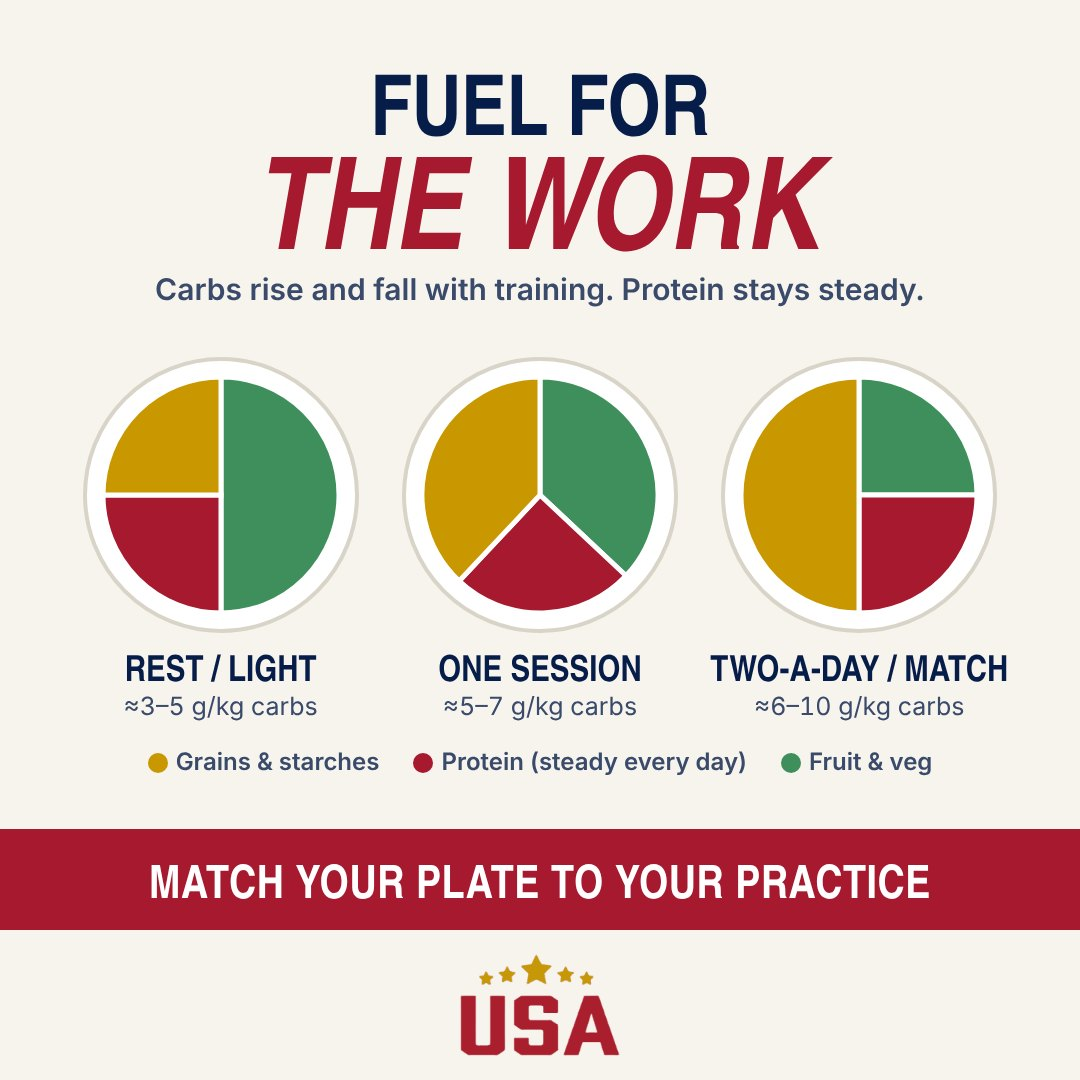
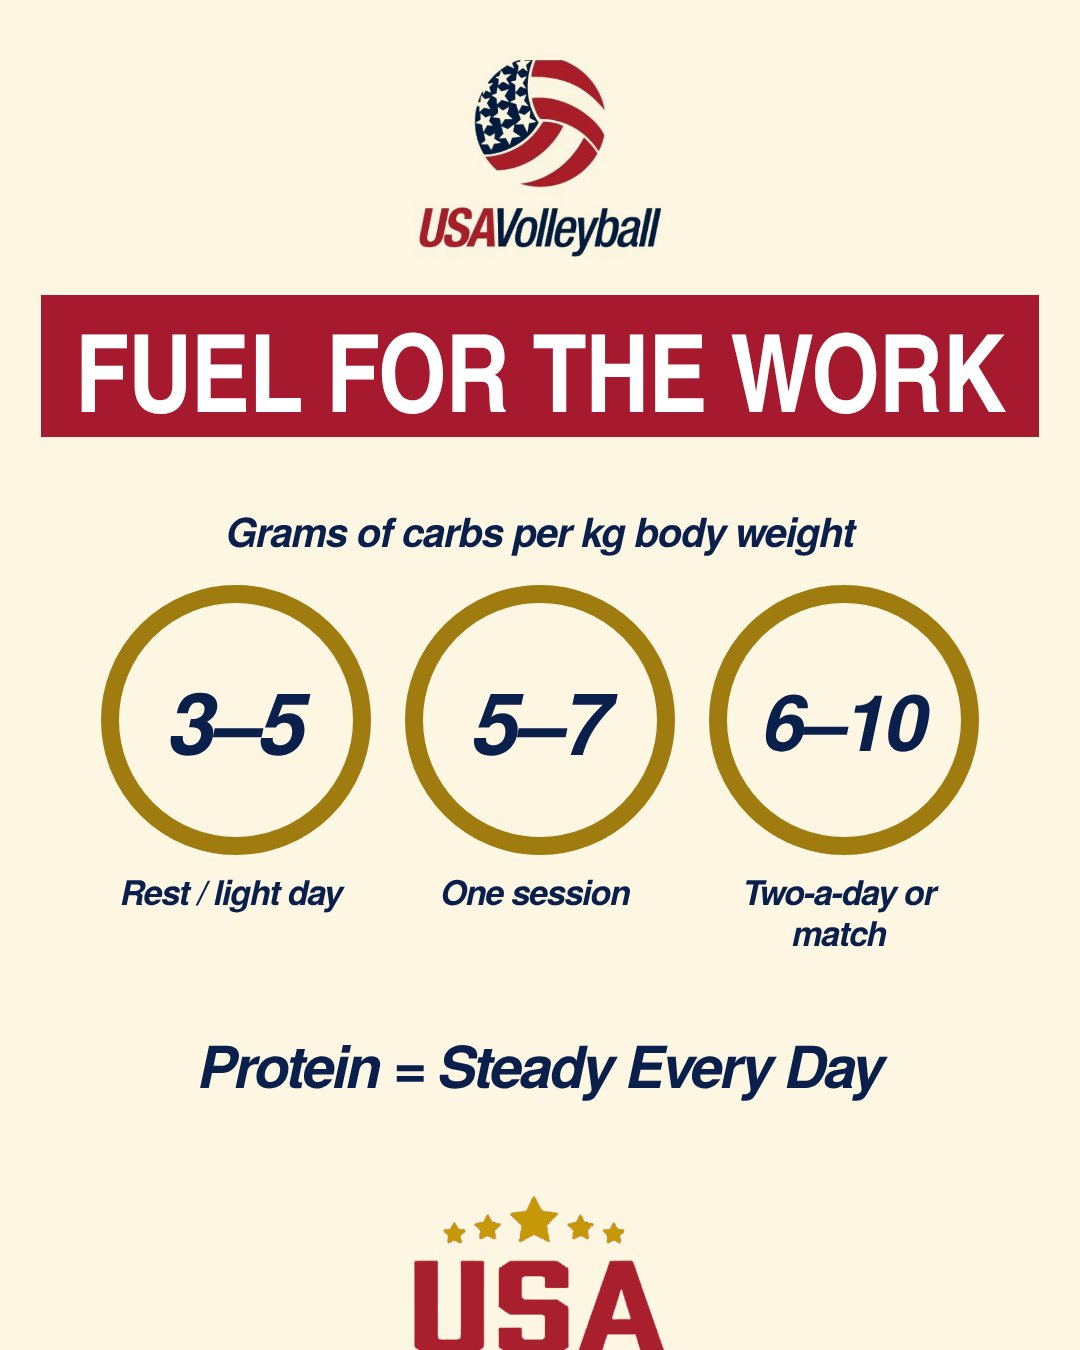
Poster wall: redraw the five new posters in the hand-made series style
4:5 portrait like Fuel the Jump, the pyramid and Build Your Plate; alt text updated.

Claude-Session: https://claude.ai/code/session_015aZ1xGAbsBUUShaTAYBaha

diff --git a/index.html b/index.html
@@ -1009,7 +1009,7 @@ const FAQ=[
 ];
 
 /* Visual guides shown at the top of Learn (images are the dietitian's own graphics) */
-const GUIDES=[{"k": "Fueling basics", "t": "Fuel the Jump", "d": "Carbs give you court energy, protein builds power, and fat supports your brain and hormones.", "img": "guide-fuel-the-jump.jpg", "alt": "Fuel the Jump: carbs equal court energy, protein equals build power, fat equals brain and hormone support."}, {"k": "Fueling basics", "t": "Sports Nutrition Pyramid", "d": "Get enough carbs, protein and fat first. Then variety, then timing. Supplements are the small top layer.", "img": "guide-sports-nutrition-pyramid.jpg", "alt": "Sports nutrition pyramid, bottom to top: adequate intake of carbohydrates, protein and fat; variety of food and food preparation; timing of meals and snacks; supplements."}, {"k": "Fueling basics", "t": "Serving the Ideal Diet", "d": "Carbs for energy, protein for repair, fats for support. Fuel and hydrate for training, perform in competition, refuel and rebuild after.", "img": "guide-serving-the-ideal-diet.jpg", "alt": "Serving the ideal diet for training, competition and recovery: carbs energy, protein repair, fats support. Balance, timing, consistency."}, {"k": "Fueling basics", "t": "The Case for Carbs", "d": "Carbs fuel high-intensity jumping and sprinting, support focus, spare muscle and restore energy after training.", "img": "guide-the-case-for-carbs.jpg", "alt": "The case for carbs: fuel high intensity, support brain function, spare muscle, restore and recover. Carbs equal performance fuel."}, {"k": "Fueling basics", "t": "Build a Better Breakfast", "d": "Breakfast fuels your day, sharpens focus and supports recovery from yesterday's training.", "img": "guide-build-a-better-breakfast.jpg", "alt": "Build a better breakfast for optimal performance: fuel your day, improve focus, support recovery."}, {"k": "Fueling basics", "t": "Olympic Caliber Nutrition", "d": "Fuel with purpose, recover with intention. Consistency builds champions.", "img": "guide-olympic-caliber-nutrition.jpg", "alt": "Olympic caliber nutrition: fuel with purpose, recover with intention, consistency builds champions."}, {"k": "Fueling basics", "t": "Fuel for the Work", "d": "Carbs rise and fall with training; protein stays steady. About 3–5 g/kg carbs on rest or light days, 5–7 on one session, 6–10 on two-a-days and match days.", "img": "guide-fuel-for-the-work.jpg", "alt": "Fuel for the work: three plates. Rest or light day, about 3 to 5 grams of carbs per kilogram: half fruit and vegetables, a quarter grains, a quarter protein. One session, about 5 to 7 grams per kilogram: grains, fruit and vegetables about equal, a quarter protein. Two-a-day or match day, about 6 to 10 grams per kilogram: half grains, a quarter fruit and vegetables, a quarter protein. Protein stays steady every day. Match your plate to your practice."}, {"k": "Fueling basics", "t": "Match Day Clock", "d": "Meal 3–4 hours out, a carb snack 1 hour out, sips between sets, easy carbs between matches, then carbs plus protein to recover.", "img": "guide-match-day-clock.jpg", "alt": "Match day clock. 4 hours before: meal with carbs and some protein, lower fat and fiber, familiar foods. 1 hour before: top-up snack such as a banana, pretzels, toast with honey or a sports drink. Between sets: sip fluid, sports drink if long, hot or intense. Between matches: easy carbs and fluid, 30 to 60 grams of carbs an hour. Final: recover with carbs and 20 to 40 grams of protein, then a real meal. Practice it before you play it."}, {"k": "Portions", "t": "Build Your Plate", "d": "Palm of protein, fist of fruit and veg, thumb of fats, cupped hand of carbs. Add more carbs on heavy training and match days.", "img": "guide-build-your-plate.jpg", "alt": "Hand portion guide: palm for protein, fist for fruit and vegetables, thumb for fats, cupped hand for carbs."}, {"k": "Portions", "t": "Nutritional Serving Sizes", "d": "Use your hand to guide serving sizes and keep each meal balanced. Larger athletes and heavy training days usually need more than one portion.", "img": "guide-nutritional-serving-sizes.jpg", "alt": "Nutritional serving sizes: palm protein, fist veggies, cupped hand carbs, thumb fats. Balance is key at every meal; consistency fuels performance."}, {"k": "Hydration", "t": "Five Signs of Dehydration", "d": "Thirst, dark yellow urine, dry mouth, fatigue and headache. Drink early and often instead of waiting for thirst.", "img": "guide-five-signs-of-dehydration.jpg", "alt": "Five signs of dehydration: thirst, dark yellow urine, dry mouth, fatigue, headache. Rehydrate: drink water early and often."}, {"k": "Hydration", "t": "Your Pee Doesn't Lie", "d": "Check your first pee each morning. Shades 1–3 mean you're hydrated, 4 means drink up, and 5–6 means rehydrate now.", "img": "guide-your-pee-doesn-t-lie.jpg", "alt": "Pee color guide, light to dark, 1 to 6. 1 to 3 hydrated, pale straw is the goal. 4 drink up. 5 to 6 drink now. Losing about 2% of body weight in sweat can hurt performance; clear all day can mean overdrinking; multivitamins can turn urine bright yellow."}, {"k": "Hydration", "t": "How Much Water Do You Need?", "d": "Starting point: body weight in pounds ÷ 2 = ounces per day. Add more on training days and in heat. Heavy or salty sweaters can ask about a sweat test.", "img": "guide-how-much-water-do-you-need.jpg", "alt": "TrueSport: how much water do you need? Body weight in pounds divided by 2 equals ounces of water per day. Example: 160 lb divided by 2 equals 80 oz."}, {"k": "Hydration", "t": "Beyond the Water Break", "d": "Electrolytes replace what you sweat out, carbs replenish energy, and recovery nutrition refuels you. Eating soon after matters most when you train again the same day.", "img": "guide-beyond-the-water-break.jpg", "alt": "Beyond the water break: electrolytes replace what you sweat out, carbs replenish energy, recovery nutrition: refuel within 60 minutes."}, {"k": "Hydration", "t": "Heat Plan", "d": "Start hydrated, pre-cool with a cold drink or slushie, drink to thirst with a sports drink when it's long or hot, and give yourself 1–2 weeks to adapt.", "img": "guide-heat-plan.jpg", "alt": "Heat plan. Before: start hydrated, pale-yellow pee is the goal. Pre-cool: cold drink or ice slushie before warm-up. During: drink to thirst, sports drink if long, hot or salty. Adapt: give your body 1 to 2 weeks to adjust to heat. Check Heat check on Home before hot or outdoor sessions."}, {"k": "Recovery & health", "t": "Foods That Heal", "d": "Berries, leafy greens, fatty fish, nuts and seeds, turmeric and ginger. They support recovery alongside enough total food, protein and sleep.", "img": "guide-foods-that-heal.jpg", "alt": "Foods that heal: berries (antioxidants), leafy greens (vitamins and minerals), fatty fish (omega-3s), nuts and seeds (healthy fats), turmeric and ginger. Real food, real recovery."}, {"k": "Recovery & health", "t": "Ironing Out Nutrition", "d": "Iron supports red blood cells, energy and endurance. Pair plant iron with vitamin C to absorb more. Don't start iron pills without labs.", "img": "guide-ironing-out-nutrition.jpg", "alt": "Ironing out nutrition: iron supports red blood cells, improves energy and endurance, pair with vitamin C to absorb more."}, {"k": "Recovery & health", "t": "The Underrated Vitamin", "d": "Vitamin D supports immune health, bones and muscle function. Ask for a lab review if you train mostly indoors.", "img": "guide-the-underrated-vitamin.jpg", "alt": "Vitamin D supports immune health, strong bones, muscle function, mood and energy. Get outside, fuel inside."}, {"k": "Recovery & health", "t": "The Night Shift", "d": "Caffeine cutoff by early afternoon, carbs at dinner, protein before bed on heavy days, and skip alcohol. Aim for 7–9 hours.", "img": "guide-the-night-shift.jpg", "alt": "The night shift: recovery clocks in when you clock out. Caffeine cutoff, none after early afternoon. Carbs at dinner about 4 hours before bed helps you fall asleep. Protein before bed, such as yogurt, milk or cottage cheese, on heavy days. Skip the nightcap: alcohol breaks up sleep and slows repair. 7 to 9 hours. Sleep is part of training."}, {"k": "Smart choices", "t": "Do Super Foods Make You Super?", "d": "No single food makes you super. Your overall diet, consistency and lifestyle do. Focus on habits, not hype.", "img": "guide-do-super-foods-make-you-super.jpg", "alt": "Do super foods make you super? No single food makes you super. Overall diet, consistency and lifestyle do."}, {"k": "Smart choices", "t": "Healthy Choices for Dining Out", "d": "Check menus ahead, build around protein and veggies plus a carb, and choose smart drinks.", "img": "guide-healthy-choices-for-dining-out.jpg", "alt": "Healthy choices for dining out: plan ahead and check menus online, focus on protein and veggies, choose smart beverages."}, {"k": "Supplements", "t": "Four Supplement Myths", "d": "More isn't better, supplements don't replace food, and not all are safe. Use only third-party tested products (NSF Certified for Sport) and check with Nick first.", "img": "guide-four-supplement-myths.jpg", "alt": "Four myths about supplements: more is better, supplements replace food, all supplements are safe, only pros need them. Focus on food, use supplements wisely."}, {"k": "Supplements", "t": "Peptides: Science vs. Hype", "d": "Popular \"wellness\" peptides like BPC-157 aren't FDA-approved for recovery or performance, have little human evidence, and several are banned by WADA.", "img": "guide-peptides-science-vs-hype.jpg", "alt": "Peptides: real science vs. marketing hype. Peptides are short chains of amino acids that signal the body to grow, repair or regulate hormones. FDA-approved peptides go through years of clinical trials; research peptides sold online lack human validation. Animal results often fail in humans. BPC-157 has no high-quality human trials and remains unregulated. Avoid products labeled For Research Use Only."}, {"k": "Supplements", "t": "Too Good to Be True", "d": "Red flags: proprietary blends, “research use only,” big muscle or fat-loss promises, and no NSF Certified for Sport or Informed Sport seal. Ask Nick first.", "img": "guide-too-good-to-be-true.jpg", "alt": "Too good to be true: supplements aren't checked for safety before they're sold. Red flags: proprietary blend hides what's inside and how much; research use only means not made or tested for people; big promises like muscle builder, test booster or fat burner; no NSF Certified for Sport or Informed Sport seal. No seal, no deal. Ask Nick first."}];
+const GUIDES=[{"k": "Fueling basics", "t": "Fuel the Jump", "d": "Carbs give you court energy, protein builds power, and fat supports your brain and hormones.", "img": "guide-fuel-the-jump.jpg", "alt": "Fuel the Jump: carbs equal court energy, protein equals build power, fat equals brain and hormone support."}, {"k": "Fueling basics", "t": "Sports Nutrition Pyramid", "d": "Get enough carbs, protein and fat first. Then variety, then timing. Supplements are the small top layer.", "img": "guide-sports-nutrition-pyramid.jpg", "alt": "Sports nutrition pyramid, bottom to top: adequate intake of carbohydrates, protein and fat; variety of food and food preparation; timing of meals and snacks; supplements."}, {"k": "Fueling basics", "t": "Serving the Ideal Diet", "d": "Carbs for energy, protein for repair, fats for support. Fuel and hydrate for training, perform in competition, refuel and rebuild after.", "img": "guide-serving-the-ideal-diet.jpg", "alt": "Serving the ideal diet for training, competition and recovery: carbs energy, protein repair, fats support. Balance, timing, consistency."}, {"k": "Fueling basics", "t": "The Case for Carbs", "d": "Carbs fuel high-intensity jumping and sprinting, support focus, spare muscle and restore energy after training.", "img": "guide-the-case-for-carbs.jpg", "alt": "The case for carbs: fuel high intensity, support brain function, spare muscle, restore and recover. Carbs equal performance fuel."}, {"k": "Fueling basics", "t": "Build a Better Breakfast", "d": "Breakfast fuels your day, sharpens focus and supports recovery from yesterday's training.", "img": "guide-build-a-better-breakfast.jpg", "alt": "Build a better breakfast for optimal performance: fuel your day, improve focus, support recovery."}, {"k": "Fueling basics", "t": "Olympic Caliber Nutrition", "d": "Fuel with purpose, recover with intention. Consistency builds champions.", "img": "guide-olympic-caliber-nutrition.jpg", "alt": "Olympic caliber nutrition: fuel with purpose, recover with intention, consistency builds champions."}, {"k": "Fueling basics", "t": "Fuel for the Work", "d": "Carbs rise and fall with training; protein stays steady. About 3–5 g/kg carbs on rest or light days, 5–7 on one session, 6–10 on two-a-days and match days.", "img": "guide-fuel-for-the-work.jpg", "alt": "USA Volleyball. Fuel for the work. Grams of carbs per kilogram of body weight: 3 to 5 on a rest or light day, 5 to 7 for one session, 6 to 10 on a two-a-day or match day. Protein equals steady every day."}, {"k": "Fueling basics", "t": "Match Day Clock", "d": "Meal 3–4 hours out, a carb snack 1 hour out, sips between sets, easy carbs between matches, then carbs plus protein to recover.", "img": "guide-match-day-clock.jpg", "alt": "USA Volleyball. Match day clock. 4 hours out equals real meal. 1 hour out equals carb snack. Between sets equals sip. Between matches equals easy carbs. Final point equals carbs plus protein."}, {"k": "Portions", "t": "Build Your Plate", "d": "Palm of protein, fist of fruit and veg, thumb of fats, cupped hand of carbs. Add more carbs on heavy training and match days.", "img": "guide-build-your-plate.jpg", "alt": "Hand portion guide: palm for protein, fist for fruit and vegetables, thumb for fats, cupped hand for carbs."}, {"k": "Portions", "t": "Nutritional Serving Sizes", "d": "Use your hand to guide serving sizes and keep each meal balanced. Larger athletes and heavy training days usually need more than one portion.", "img": "guide-nutritional-serving-sizes.jpg", "alt": "Nutritional serving sizes: palm protein, fist veggies, cupped hand carbs, thumb fats. Balance is key at every meal; consistency fuels performance."}, {"k": "Hydration", "t": "Five Signs of Dehydration", "d": "Thirst, dark yellow urine, dry mouth, fatigue and headache. Drink early and often instead of waiting for thirst.", "img": "guide-five-signs-of-dehydration.jpg", "alt": "Five signs of dehydration: thirst, dark yellow urine, dry mouth, fatigue, headache. Rehydrate: drink water early and often."}, {"k": "Hydration", "t": "Your Pee Doesn't Lie", "d": "Check your first pee each morning. Shades 1–3 mean you're hydrated, 4 means drink up, and 5–6 means rehydrate now.", "img": "guide-your-pee-doesn-t-lie.jpg", "alt": "Pee color guide, light to dark, 1 to 6. 1 to 3 hydrated, pale straw is the goal. 4 drink up. 5 to 6 drink now. Losing about 2% of body weight in sweat can hurt performance; clear all day can mean overdrinking; multivitamins can turn urine bright yellow."}, {"k": "Hydration", "t": "How Much Water Do You Need?", "d": "Starting point: body weight in pounds ÷ 2 = ounces per day. Add more on training days and in heat. Heavy or salty sweaters can ask about a sweat test.", "img": "guide-how-much-water-do-you-need.jpg", "alt": "TrueSport: how much water do you need? Body weight in pounds divided by 2 equals ounces of water per day. Example: 160 lb divided by 2 equals 80 oz."}, {"k": "Hydration", "t": "Beyond the Water Break", "d": "Electrolytes replace what you sweat out, carbs replenish energy, and recovery nutrition refuels you. Eating soon after matters most when you train again the same day.", "img": "guide-beyond-the-water-break.jpg", "alt": "Beyond the water break: electrolytes replace what you sweat out, carbs replenish energy, recovery nutrition: refuel within 60 minutes."}, {"k": "Hydration", "t": "Heat Plan", "d": "Start hydrated, pre-cool with a cold drink or slushie, drink to thirst with a sports drink when it's long or hot, and give yourself 1–2 weeks to adapt.", "img": "guide-heat-plan.jpg", "alt": "USA Volleyball heat plan, in four steps: start hydrated; pre-cool with a cold drink or slushie; drink to thirst, sports drink when long or hot; give it 1 to 2 weeks to adapt. Check Heat check on Home first."}, {"k": "Recovery & health", "t": "Foods That Heal", "d": "Berries, leafy greens, fatty fish, nuts and seeds, turmeric and ginger. They support recovery alongside enough total food, protein and sleep.", "img": "guide-foods-that-heal.jpg", "alt": "Foods that heal: berries (antioxidants), leafy greens (vitamins and minerals), fatty fish (omega-3s), nuts and seeds (healthy fats), turmeric and ginger. Real food, real recovery."}, {"k": "Recovery & health", "t": "Ironing Out Nutrition", "d": "Iron supports red blood cells, energy and endurance. Pair plant iron with vitamin C to absorb more. Don't start iron pills without labs.", "img": "guide-ironing-out-nutrition.jpg", "alt": "Ironing out nutrition: iron supports red blood cells, improves energy and endurance, pair with vitamin C to absorb more."}, {"k": "Recovery & health", "t": "The Underrated Vitamin", "d": "Vitamin D supports immune health, bones and muscle function. Ask for a lab review if you train mostly indoors.", "img": "guide-the-underrated-vitamin.jpg", "alt": "Vitamin D supports immune health, strong bones, muscle function, mood and energy. Get outside, fuel inside."}, {"k": "Recovery & health", "t": "The Night Shift", "d": "Caffeine cutoff by early afternoon, carbs at dinner, protein before bed on heavy days, and skip alcohol. Aim for 7–9 hours.", "img": "guide-the-night-shift.jpg", "alt": "The night shift. Sleep is part of training. Caffeine equals done by early afternoon. Dinner equals bring the carbs. Before bed equals protein snack. Alcohol equals skip it."}, {"k": "Smart choices", "t": "Do Super Foods Make You Super?", "d": "No single food makes you super. Your overall diet, consistency and lifestyle do. Focus on habits, not hype.", "img": "guide-do-super-foods-make-you-super.jpg", "alt": "Do super foods make you super? No single food makes you super. Overall diet, consistency and lifestyle do."}, {"k": "Smart choices", "t": "Healthy Choices for Dining Out", "d": "Check menus ahead, build around protein and veggies plus a carb, and choose smart drinks.", "img": "guide-healthy-choices-for-dining-out.jpg", "alt": "Healthy choices for dining out: plan ahead and check menus online, focus on protein and veggies, choose smart beverages."}, {"k": "Supplements", "t": "Four Supplement Myths", "d": "More isn't better, supplements don't replace food, and not all are safe. Use only third-party tested products (NSF Certified for Sport) and check with Nick first.", "img": "guide-four-supplement-myths.jpg", "alt": "Four myths about supplements: more is better, supplements replace food, all supplements are safe, only pros need them. Focus on food, use supplements wisely."}, {"k": "Supplements", "t": "Peptides: Science vs. Hype", "d": "Popular \"wellness\" peptides like BPC-157 aren't FDA-approved for recovery or performance, have little human evidence, and several are banned by WADA.", "img": "guide-peptides-science-vs-hype.jpg", "alt": "Peptides: real science vs. marketing hype. Peptides are short chains of amino acids that signal the body to grow, repair or regulate hormones. FDA-approved peptides go through years of clinical trials; research peptides sold online lack human validation. Animal results often fail in humans. BPC-157 has no high-quality human trials and remains unregulated. Avoid products labeled For Research Use Only."}, {"k": "Supplements", "t": "Too Good to Be True", "d": "Red flags: proprietary blends, “research use only,” big muscle or fat-loss promises, and no NSF Certified for Sport or Informed Sport seal. Ask Nick first.", "img": "guide-too-good-to-be-true.jpg", "alt": "USA Volleyball. Too good to be true. Proprietary blend equals hidden doses. Research use only equals not for humans. Big promises equals big risk. No NSF or Informed Sport seal equals no deal. Ask Nick first."}];
 const SESSIONS=["Onboarding HHQ","General sports performance","Lab review","Body tissue measurement","Request supplements"];
 const POSITIONS=["Outside hitter","Opposite","Middle blocker","Setter","Libero"];
 const STAFF_ROLES=["Staff","Coach","Health Performance"];
